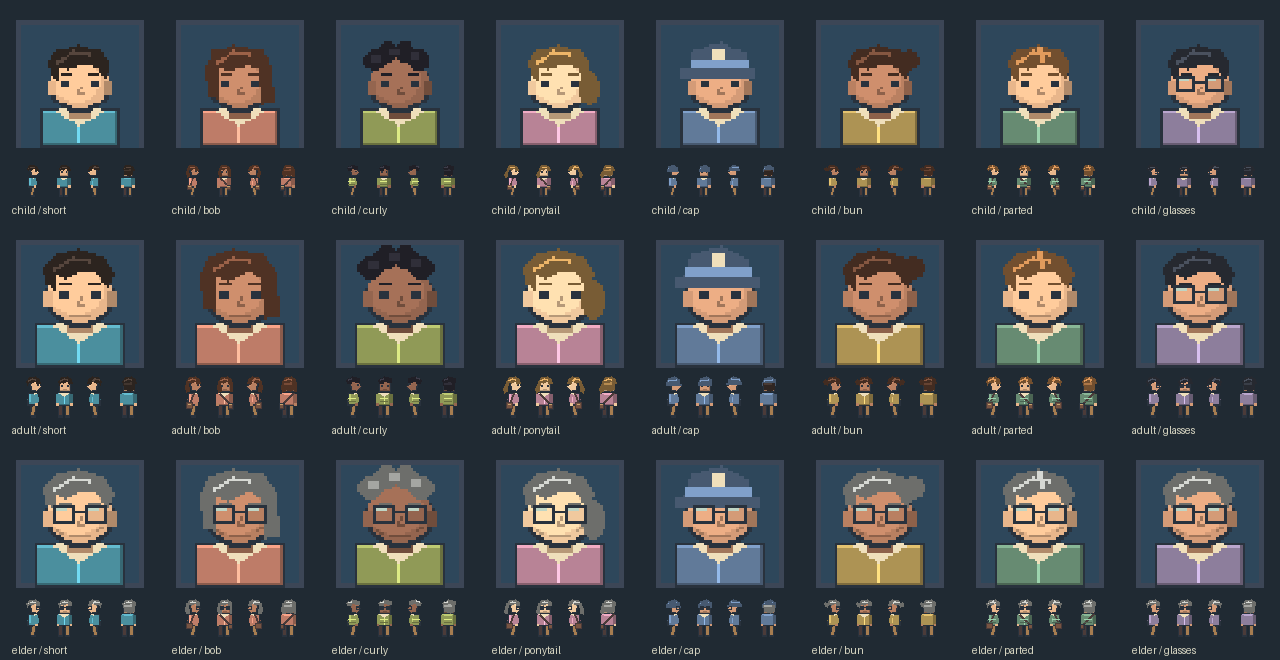
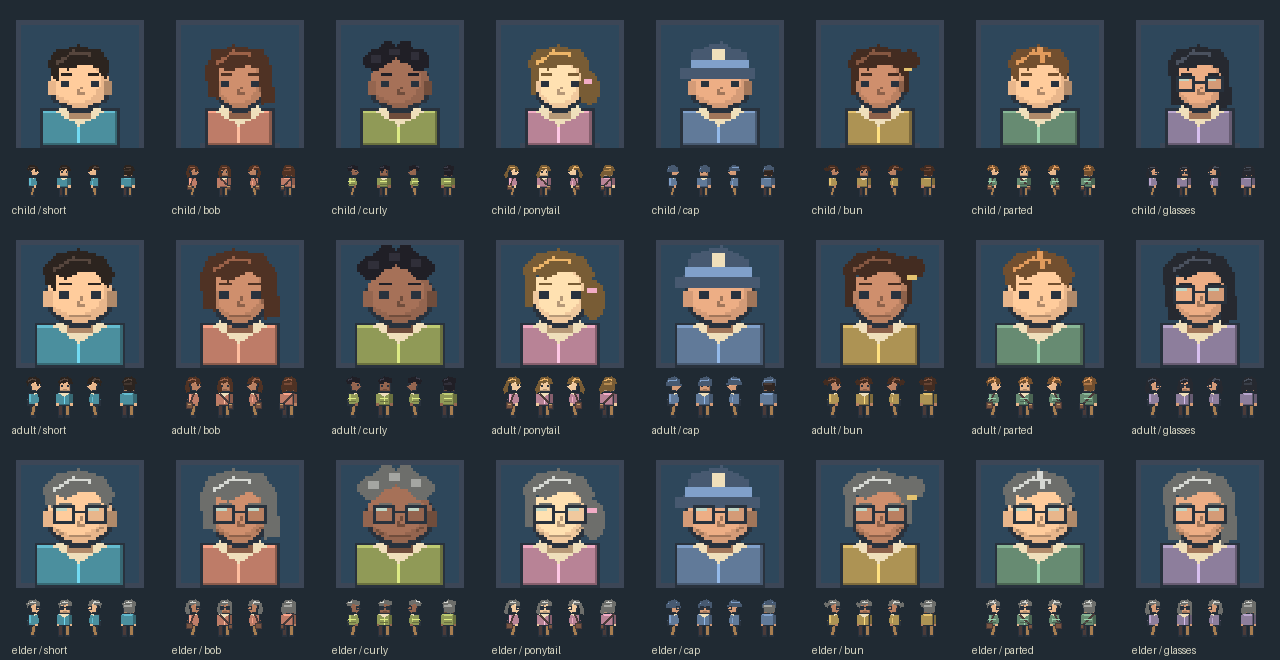
Preserve resident art style and link gender across portraits and street actors

diff --git a/src/simulation/BuildingSystem.ts b/src/simulation/BuildingSystem.ts
@@ -5,7 +5,8 @@ import { freightLines as freightRules, planFreightLines, type FreightLine, type 
 import { LifeSystem, EMPTY_LIFE, type LifeResident } from './LifeSystem';
 import { planFacilityVisits, type CivicVisitContext } from './CivicVisits';
 import { ActivityDiary, activityDay, visitReasons } from './ActivityDiary';
-import { createIdentity, identityAt, YEAR_TICKS } from './ResidentIdentity';
+import { createIdentity, identityAt, identityGender, YEAR_TICKS } from './ResidentIdentity';
+import { legacyGender, type ResidentGender } from './ResidentGender';
 import { Relationships } from './Relationships';
 import { seats } from './Capacity';
 import { spacesAt } from './Parking';
@@ -126,12 +127,16 @@ export class BuildingSystem {
 
   private ensureIdentities(): void {
     this.peopleById.clear();
-    for (const child of this.life.children) this.nextPersonId = Math.max(this.nextPersonId, child.identity.id + 1);
+    for (const child of this.life.children) {
+      child.identity.gender ??= identityGender(child.identity);
+      this.nextPersonId = Math.max(this.nextPersonId, child.identity.id + 1);
+    }
     for (const building of this.buildings.values()) for (const person of building.people ?? []) {
       if (person.identity) this.nextPersonId = Math.max(this.nextPersonId, person.identity.id + 1);
     }
     for (const [home, building] of this.buildings) for (const person of building.people ?? []) {
       person.identity ??= createIdentity(this.nextPersonId++, this.seed, home, person.slot, person.came, building.kind);
+      person.identity.gender ??= identityGender(person.identity);
       this.nextPersonId = Math.max(this.nextPersonId, person.identity.id + 1);
       this.peopleById.set(person.identity.id, { home, person });
     }
@@ -144,10 +149,11 @@ export class BuildingSystem {
       const first = members.reduce((a, b) => a.came < b.came ? a : b);
       const legacy = childrenAt(this.seed, home, building.kind, members.length,
         this.whoAt(home, first).name[0], Math.floor((this.clock - first.came) / YEAR_TICKS));
-      this.life.establish(home, legacy.map(child => ({ home,
-        guardians: members.slice(0, 2).map(person => person.identity!.id),
-        identity: { id: this.nextPersonId++, name: child.name, born: this.clock - child.age * YEAR_TICKS },
-      })));
+      this.life.establish(home, legacy.map(child => {
+        const id = this.nextPersonId++;
+        return { home, guardians: members.slice(0, 2).map(person => person.identity!.id),
+          identity: { id, name: child.name, born: this.clock - child.age * YEAR_TICKS, gender: legacyGender(id) } };
+      }));
     }
   }
   private whoAt(home: number, person: SavedPerson) {
@@ -1975,9 +1981,10 @@ export class BuildingSystem {
   }
 
   /** Lightweight identity lookup for map appearance; avoids constructing the full person panel every frame. */
-  residentLook(home: number, slot: number): { id: number; age: number } | undefined {
+  residentLook(home: number, slot: number): { id: number; age: number; gender: ResidentGender } | undefined {
     const person = this.buildings.get(home)?.people?.find(person => person.slot === slot);
-    return person ? { id: person.identity?.id ?? home * 64 + slot, age: this.whoAt(home, person).age } : undefined;
+    const id = person?.identity?.id ?? home * 64 + slot;
+    return person ? { id, age: this.whoAt(home, person).age, gender: person.identity?.gender ?? legacyGender(id) } : undefined;
   }
 
   /** What the whole city thinks: the average mood, and how many people have each thought, most first. */

diff --git a/src/simulation/ResidentGender.test.ts b/src/simulation/ResidentGender.test.ts
@@ -1,0 +1,54 @@
+import { expect, it } from 'vitest';
+import { createIdentity, identityAt, parseIdentity, YEAR_TICKS } from './ResidentIdentity';
+import { legacyGender } from './ResidentGender';
+import { genderForGeneratedName } from './Residents';
+import { SimulationEngine } from './SimulationEngine';
+import { residentAppearance } from '../rendering/residentAppearance';
+import styles from '../assets/street/residents.json';
+
+it('records gender when new residents are generated, with both categories and matching catalog names', () => {
+  const people = Array.from({ length: 80 }, (_, id) => createIdentity(id, 42, 519, id, 0));
+  expect(new Set(people.map(person => person.gender))).toEqual(new Set(['male', 'female']));
+  for (const person of people) {
+    expect(person.gender).toBe(genderForGeneratedName(person.name));
+    expect(identityAt(person, YEAR_TICKS).gender).toBe(person.gender);
+  }
+});
+
+it('migrates known generated names and unknown legacy names without guessing from arbitrary text', () => {
+  expect(parseIdentity({ id: 5, name: '李美玲', born: -3000 })?.gender).toBe('female');
+  expect(parseIdentity({ id: 5, name: '蔡信宏', born: -3000 })?.gender).toBe('male');
+  for (const id of [0, 1, 42, 700]) {
+    expect(parseIdentity({ id, name: '居民甲', born: 0 })?.gender).toBe(legacyGender(id));
+  }
+  expect(parseIdentity({ id: 5, name: '李美玲', born: -3000, gender: 'male' })?.gender).toBe('male');
+  expect(() => parseIdentity({ id: 5, name: '居民甲', born: 0, gender: 'invalid' })).toThrow('存檔資料損壞');
+});
+
+it('uses the saved gender for the same map, portrait and rider profile at every age', () => {
+  for (const gender of ['male', 'female'] as const) for (const age of [10, 30, 70]) {
+    const profiles = Array.from({ length: 80 }, (_, id) => residentAppearance(42, id, age, gender));
+    expect(new Set(profiles).size).toBe(4);
+    expect(profiles.every(profile => styles.looks[profile % styles.variants].gender === gender)).toBe(true);
+  }
+});
+
+it('keeps migrated gender and appearance when a resident moves, and rejects damaged data atomically', () => {
+  const engine = new SimulationEngine({ version: 1, seed: 42, tick: 0 });
+  engine.city.execute({ type: 'SET_ZONE', tiles: [{ x: 7, y: 4 }, { x: 7, y: 5 }], zone: 'residential' });
+  const legacy = { ...engine.save(), schemaVersion: 11, buildings: [{ id: 519, capacity: 4, occupants: 1, nextSlot: 1,
+    people: [{ slot: 0, job: -1, came: 0, hired: 0, identity: { id: 42, name: '李美玲', born: -30 * YEAR_TICKS } }] }] };
+  engine.load(legacy);
+  const look = engine.city.residentLook(519, 0)!;
+  expect(look.gender).toBe('female');
+  expect(engine.city.person(519, 0, 6)?.gender).toBe(look.gender);
+  const save = engine.save();
+  save.buildings[0].id = 647;
+  engine.load(structuredClone(save));
+  expect(engine.city.residentLook(647, 0)).toEqual(look);
+  const before = structuredClone(engine.save());
+  const damaged = structuredClone(before);
+  (damaged.buildings[0].people![0].identity as unknown as { gender: string }).gender = 'invalid';
+  expect(() => engine.load(damaged)).toThrow('存檔資料損壞');
+  expect(engine.save()).toEqual(before);
+});

diff --git a/src/simulation/ResidentIdentity.ts b/src/simulation/ResidentIdentity.ts
@@ -1,20 +1,25 @@
 import { calendar } from './calendar';
-import { residentAt, TRAITS, type HomeKind, type Resident, type Trait } from './Residents';
+import { genderForGeneratedName, residentAt, TRAITS, type HomeKind, type Resident, type Trait } from './Residents';
+import { legacyGender, type ResidentGender } from './ResidentGender';
 
 export const YEAR_TICKS = calendar.ticksPerDay * calendar.daysPerMonth * calendar.monthsPerYear;
 export interface ResidentIdentity {
   id: number;
   name: string;
   born: number;
+  gender?: ResidentGender;
   trait?: Trait;
   liking?: Resident['liking'];
 }
+export function identityGender(identity: ResidentIdentity): ResidentGender {
+  return identity.gender ?? genderForGeneratedName(identity.name) ?? legacyGender(identity.id);
+}
 export function createIdentity(id: number, seed: number, home: number, slot: number, came: number, kind?: HomeKind): ResidentIdentity {
   const who = residentAt(seed, home, slot, kind);
-  return { id, name: who.name, born: came - who.age * YEAR_TICKS, trait: who.trait, liking: who.liking };
+  return { id, name: who.name, born: came - who.age * YEAR_TICKS, gender: who.gender, trait: who.trait, liking: who.liking };
 }
 export function identityAt(identity: ResidentIdentity, tick: number): Resident {
-  return { name: identity.name, age: Math.floor((tick - identity.born) / YEAR_TICKS),
+  return { name: identity.name, gender: identityGender(identity), age: Math.floor((tick - identity.born) / YEAR_TICKS),
     trait: identity.trait, liking: identity.liking };
 }
 export function parseIdentity(value: unknown): ResidentIdentity | undefined {
@@ -22,9 +27,10 @@ export function parseIdentity(value: unknown): ResidentIdentity | undefined {
   const item = value as ResidentIdentity;
   if (!item || !Number.isSafeInteger(item.id) || item.id < 0 || typeof item.name !== 'string' ||
       !item.name.length || item.name.length > 80 || !Number.isSafeInteger(item.born) ||
+      (item.gender !== undefined && item.gender !== 'male' && item.gender !== 'female') ||
       (item.trait !== undefined && !TRAITS.includes(item.trait)) ||
       (item.liking !== undefined && item.liking !== 'commercial' && item.liking !== 'industrial')) {
     throw new Error('存檔資料損壞。');
   }
-  return { id: item.id, name: item.name, born: item.born, trait: item.trait, liking: item.liking };
+  return { id: item.id, name: item.name, born: item.born, gender: identityGender(item), trait: item.trait, liking: item.liking };
 }

diff --git a/src/rendering/CityRenderer.ts b/src/rendering/CityRenderer.ts
@@ -322,7 +322,7 @@ export class CityRenderer {
         carSprites.draw(people, cx, cy, heading, tier, index, this.city.theme);
         return;
       }
-      if (tier === 0 && camera.scale >= DETAIL_ZOOM) {
+      if (tier === 0) {
         if (this.bicycles) { this.bicycles.draw(people, cx, cy, heading, bicycle?.profile, bicycle?.distance); return; }
         requestBicycles();
       }
@@ -396,7 +396,7 @@ export class CityRenderer {
       // A person is small beside a house: three pixels across and nine tall.
       const x = Math.round(cx) - 1;
       const y = Math.round(cy) - 4;
-      if (camera.scale >= DETAIL_ZOOM) {
+      if (camera.scale >= 1) {
         streetArt.drawPerson(people, cx, cy, motion.heading, index, motion.distance, motion.walking, profile);
         if (wet) {
           const colour = [0xe5484d, 0x3f6fb0, 0xf2c94c, 0x5f9a6a, 0xf4f6f8][index % 5];
@@ -539,7 +539,7 @@ export class CityRenderer {
         const { key, index: i, tier, wanted } = real;
         const slot = real.person?.slot ?? this.city.personOn(real.homeId, real.workId);
         const identity = slot === undefined ? undefined : this.city.residentLook(real.person?.home ?? real.homeId, slot);
-        const profile = residentAppearance(this.city.seed, identity?.id ?? real.homeId * 64 + (slot ?? 0), identity?.age ?? 30);
+        const profile = residentAppearance(this.city.seed, identity?.id ?? real.homeId * 64 + (slot ?? 0), identity?.age ?? 30, identity?.gender);
         const actor = `commute:${key}`;
         let trip = trips.get(key);
         if (!trip) trips.set(key, trip = { at: (real.initialProgress ?? 0) >= 1 ? 'work' : 'home', wait: 0,
@@ -830,7 +830,7 @@ export class CityRenderer {
           const identity = this.city.residentLook(trip.home, trip.slot);
           drawWalker(spot.x, spot.y, trip.home + trip.slot, carHeading(next.x - point.x, next.y - point.y, Math.PI / 2),
             `visit:${trip.home}:${trip.slot}`, residentAppearance(this.city.seed,
-              identity?.id ?? trip.home * 64 + trip.slot, identity?.age ?? 30));
+              identity?.id ?? trip.home * 64 + trip.slot, identity?.age ?? 30, identity?.gender));
         }
         spots.push({ ...spot, homeId: trip.home, slot: trip.slot });
         if (this.followVisitor?.home === trip.home && this.followVisitor.slot === trip.slot) pin = spot;

diff --git a/src/simulation/Residents.ts b/src/simulation/Residents.ts
@@ -6,6 +6,7 @@
  * reused, so nobody comes back under the same name.
  */
 import type { Zone } from './TileMap';
+import type { ResidentGender } from './ResidentGender';
 
 export type Trait = 'rich' | 'driver' | 'rider' | 'helper' | 'gardener';
 
@@ -71,6 +72,7 @@ export const traits = {
 
 export interface Resident {
   name: string;
+  gender?: ResidentGender;
   trait?: Trait;
   /** Their age on the day they moved in. */
   age: number;
@@ -88,6 +90,12 @@ const GIVEN_NAMES = [
   '子軒', '品妤', '宇翔', '思妤', '國華', '麗華', '彥廷', '郁婷', '明哲', '佳穎',
   '阿土', '春嬌', '大同', '小玉', '金水', '月娥', '添財', '素貞', '榮發', '寶珠',
 ];
+
+/** Category of our own generated-name catalog; unknown names are handled by stable identity. */
+export function genderForGeneratedName(name: string): ResidentGender | undefined {
+  const index = GIVEN_NAMES.indexOf(name.slice(1));
+  return index < 0 ? undefined : index % 2 ? 'female' : 'male';
+}
 
 /** A 32-bit mix of the seed, the home and the place in it. */
 function mix(seed: number, home: number, place: number, salt: number): number {
@@ -110,11 +118,12 @@ export function traitOf(seed: number, home: number, place: number, kind?: HomeKi
 
 export function residentAt(seed: number, home: number, place: number, kind?: HomeKind): Resident {
   const surname = SURNAMES[mix(seed, home, place, 1) % SURNAMES.length];
-  const given = GIVEN_NAMES[mix(seed, home, place, 2) % GIVEN_NAMES.length];
+  const givenIndex = mix(seed, home, place, 2) % GIVEN_NAMES.length;
+  const given = GIVEN_NAMES[givenIndex];
   const { youngest, oldest } = people;
   const liking = (kind && homeKinds[kind].liking) || people.liking;
   const taste = mix(seed, home, place, 4) / 2 ** 32;
-  return { name: surname + given, trait: traitOf(seed, home, place, kind),
+  return { name: surname + given, gender: givenIndex % 2 ? 'female' : 'male', trait: traitOf(seed, home, place, kind),
     age: youngest + mix(seed, home, place, 3) % (oldest - youngest + 1),
     liking: taste < liking.commercial ? 'commercial' :
       taste < liking.commercial + liking.industrial ? 'industrial' : undefined };

diff --git a/src/app/App.tsx b/src/app/App.tsx
@@ -1,5 +1,6 @@
 import { VehiclePanel } from './VehiclePanel';
 import { PersonPortrait } from './PersonPortrait';
+import { genderNames } from '../simulation/ResidentGender';
 import { cellFromId } from '../simulation/FacilityAccess';
 import { weatherAt, weatherNames } from '../simulation/Weather';
 import { AutosaveSession, type AutosaveStatus } from '../storage/AutosaveSession';
@@ -636,11 +637,12 @@ export function App() {
   const personCard = seen && doing && <section className="person">
     <button type="button" className="back" onClick={() => setWho(undefined)}>← 回上一頁</button>
     <div className="person-heading">
-      <PersonPortrait seed={engine.city.seed} id={seen.id ?? seen.homeId * 64 + seen.slot} age={seen.age} name={seen.name} />
+      <PersonPortrait seed={engine.city.seed} id={seen.id ?? seen.homeId * 64 + seen.slot} age={seen.age} name={seen.name} gender={seen.gender} />
       <h2>{seen.name}</h2>
     </div>
     <div className="tags">
       <Tag label={`${seen.age} 歲`} />
+      {seen.gender && <Tag label={genderNames[seen.gender]} />}
       {seen.trait && <Tag label={traitNames[seen.trait][0]} tip={traitNames[seen.trait][1]} />}
       {seen.kids > 0 && <Tag label="小孩" value={seen.kids} />}
       {seen.birthday && <Tag label="今天生日" tone="good" tip="附近有蛋糕店的話，家裡會有人去買蛋糕" />}

diff --git a/src/simulation/SaveData.ts b/src/simulation/SaveData.ts
@@ -22,6 +22,7 @@ import { challenges, type Challenge } from './Seasons';
 import { brands, dilemmas, type Boost, type Brand, type Dilemma } from './Dilemmas';
 
 /**
+ * 12 stores resident gender, shared by cards, walkers and bicycle riders.
  * 11 preserves sub-tick visits and travel delays on the slower live clock.
  * 10 adds logistics warehouse tiles and transshipment inventory.
  * 9 adds actual local freight stocks, vehicle manifests and monthly operating reports.
@@ -32,14 +33,14 @@ import { brands, dilemmas, type Boost, type Brand, type Dilemma } from './Dilemm
  * 4 added funds, the milestone rank and avenue tiles; 3 added power and water facility tiles;
  * 2 added per-building capacity and occupants.
  */
-export const SCHEMA_VERSION = 11;
+export const SCHEMA_VERSION = 12;
 /**
  * How a city looks: which city's colours its homes and shops wear, and the trees, cars and
  * bridges that go with them. Nothing in the simulation goes by it.
  */
 export const THEMES = ['classic', 'sf', 'california', 'newyork'] as const;
 export type Theme = (typeof THEMES)[number];
-const READABLE = [1, 2, 3, 4, 5, 6, 7, 8, 9, 10, SCHEMA_VERSION];
+const READABLE = [1, 2, 3, 4, 5, 6, 7, 8, 9, 10, 11, SCHEMA_VERSION];
 
 export interface SavedBuilding {
   id: number;

diff --git a/src/simulation/ResidentLook.test.ts b/src/simulation/ResidentLook.test.ts
@@ -10,13 +10,13 @@ it('gives the map and person card the same identity, including after moving and 
     people: [{ slot: 0, job: -1, came: 0, hired: 0, identity: { id: 42, name: '居民甲', born: -30 * YEAR_TICKS } }] }] });
   const look = engine.city.residentLook(519, 0)!;
   const card = engine.city.person(519, 0, 6)!;
-  expect(look).toEqual({ id: card.id, age: card.age });
-  const profile = residentAppearance(engine.city.seed, look.id, look.age);
+  expect(look).toEqual({ id: card.id, age: card.age, gender: card.gender });
+  const profile = residentAppearance(engine.city.seed, look.id, look.age, look.gender);
   const save = engine.save();
   save.buildings = save.buildings.map(building => ({ ...building, id: 647 }));
   engine.load(structuredClone(save));
   const moved = engine.city.residentLook(647, 0)!;
   expect(moved).toEqual(look);
-  expect(residentAppearance(engine.city.seed, moved.id, moved.age)).toBe(profile);
+  expect(residentAppearance(engine.city.seed, moved.id, moved.age, moved.gender)).toBe(profile);
   expect(engine.city.residentLook(519, 0)).toBeUndefined();
 });

diff --git a/src/rendering/residentAppearance.ts b/src/rendering/residentAppearance.ts
@@ -1,10 +1,16 @@
 import residents from '../assets/street/residents.json';
+import { legacyGender, type ResidentGender } from '../simulation/ResidentGender';
+const looksByGender = {
+  male: residents.looks.flatMap((look, index) => look.gender === 'male' ? [index] : []),
+  female: residents.looks.flatMap((look, index) => look.gender === 'female' ? [index] : []),
+};
 
 /** Stable resident identity, never a route index, home address or display order. */
-export function residentAppearance(seed: number, id: number, age: number): number {
+export function residentAppearance(seed: number, id: number, age: number, gender: ResidentGender = legacyGender(id)): number {
   let hash = Math.imul((id + 1) ^ seed, 0x45d9f3b);
   hash = Math.imul(hash ^ (hash >>> 16), 0x45d9f3b);
-  const variant = ((hash ^ (hash >>> 16)) >>> 0) % residents.variants;
+  const variants = looksByGender[gender];
+  const variant = variants[((hash ^ (hash >>> 16)) >>> 0) % variants.length];
   const group = age < 18 ? 0 : age >= 65 ? 2 : 1;
   return group * residents.variants + variant;
 }

diff --git a/src/simulation/LifeSystem.test.ts b/src/simulation/LifeSystem.test.ts
@@ -14,7 +14,7 @@ const options = () => {
 
 it('preserves a child through a save and promotes the same identity exactly once', () => {
   const life = new LifeSystem();
-  const child = { identity: { id: 2, name: '林安', born: -18 * YEAR_TICKS + DAY }, home: 1, guardians: [1] };
+  const child = { identity: { id: 2, name: '林安', born: -18 * YEAR_TICKS + DAY, gender: 'female' as const }, home: 1, guardians: [1] };
   life.establish(1, [child]);
   const restored = new LifeSystem();
   restored.load(parseLife(life.save(), 0)!);
@@ -59,6 +59,7 @@ it('delivers a planned birth once, retaining parents and identity after loading'
   life.advance(DAY, 4, parents, options());
   expect(life.children).toHaveLength(1);
   expect(life.children[0]).toMatchObject({ guardians: [1, 2], identity: { id: 100, born: DAY } });
+  expect(['male', 'female']).toContain(life.children[0].identity.gender);
   const restored = new LifeSystem();
   restored.load(parseLife(life.save(), DAY)!);
   restored.advance(2 * DAY, 4, parents, options());

diff --git a/src/simulation/LifeSystem.ts b/src/simulation/LifeSystem.ts
@@ -1,5 +1,6 @@
 import { calendar } from './calendar';
 import { YEAR_TICKS, type ResidentIdentity } from './ResidentIdentity';
+import { legacyGender } from './ResidentGender';
 
 const DAY = calendar.ticksPerDay;
 export interface LifeChild { identity: ResidentIdentity; home: number; guardians: number[] }
@@ -150,7 +151,7 @@ export class LifeSystem {
       const id = options.allocateId();
       const surname = live.get(plan.parents[0])!.identity.name[0];
       const name = surname + ['安安', '樂樂', '恩恩', '小宇', '彤彤', '小華'][id % 6];
-      this.state.children.push({ home: plan.home, guardians: [...plan.parents], identity: { id, name, born: tick } });
+      this.state.children.push({ home: plan.home, guardians: [...plan.parents], identity: { id, name, born: tick, gender: legacyGender(id) } });
       reserved.set(plan.home, (reserved.get(plan.home) ?? 0) + 1);
       this.tell({ tick, person: id, name, home: plan.home, kind: 'birth' });
       return false;

diff --git a/src/app/PersonPortrait.tsx b/src/app/PersonPortrait.tsx
@@ -1,9 +1,10 @@
 import portraits from '../assets/street/portraits.png';
 import residents from '../assets/street/residents.json';
 import { residentAppearance } from '../rendering/residentAppearance';
+import type { ResidentGender } from '../simulation/ResidentGender';
 
-export function PersonPortrait({ seed, id, age, name }: { seed: number; id: number; age: number; name: string }) {
-  const profile = residentAppearance(seed, id, age);
+export function PersonPortrait({ seed, id, age, name, gender }: { seed: number; id: number; age: number; name: string; gender?: ResidentGender }) {
+  const profile = residentAppearance(seed, id, age, gender);
   const size = residents.portrait * 2;
   return <span className="person-portrait" role="img" aria-label={`${name}的頭像`} style={{
     width: size, height: size, backgroundImage: `url(${portraits})`,
